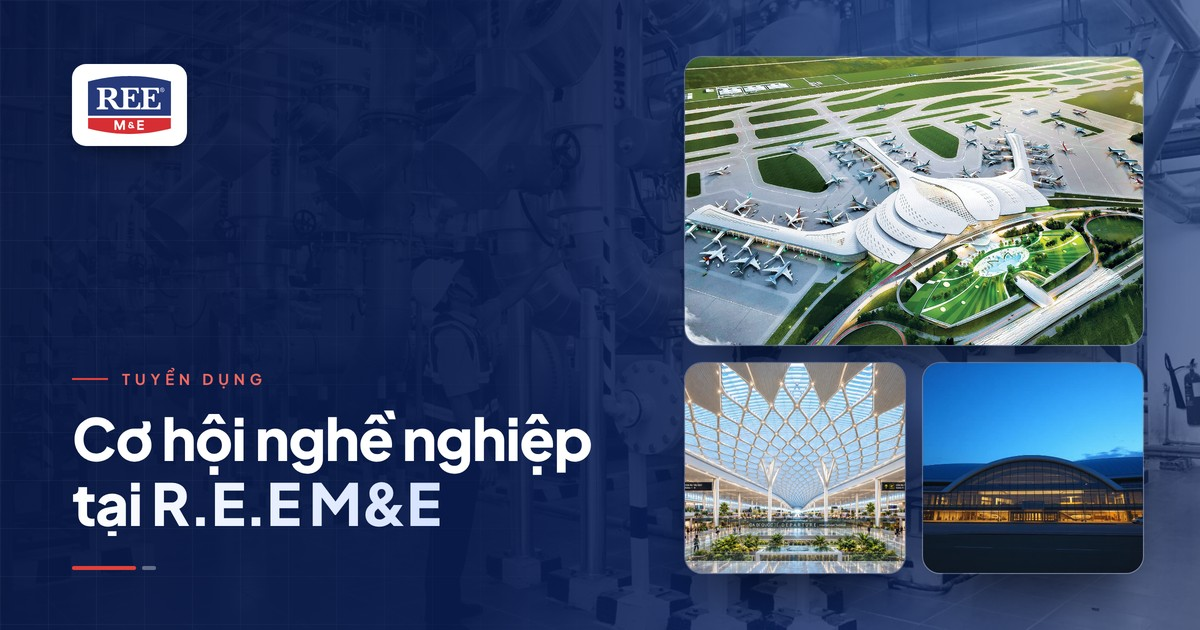
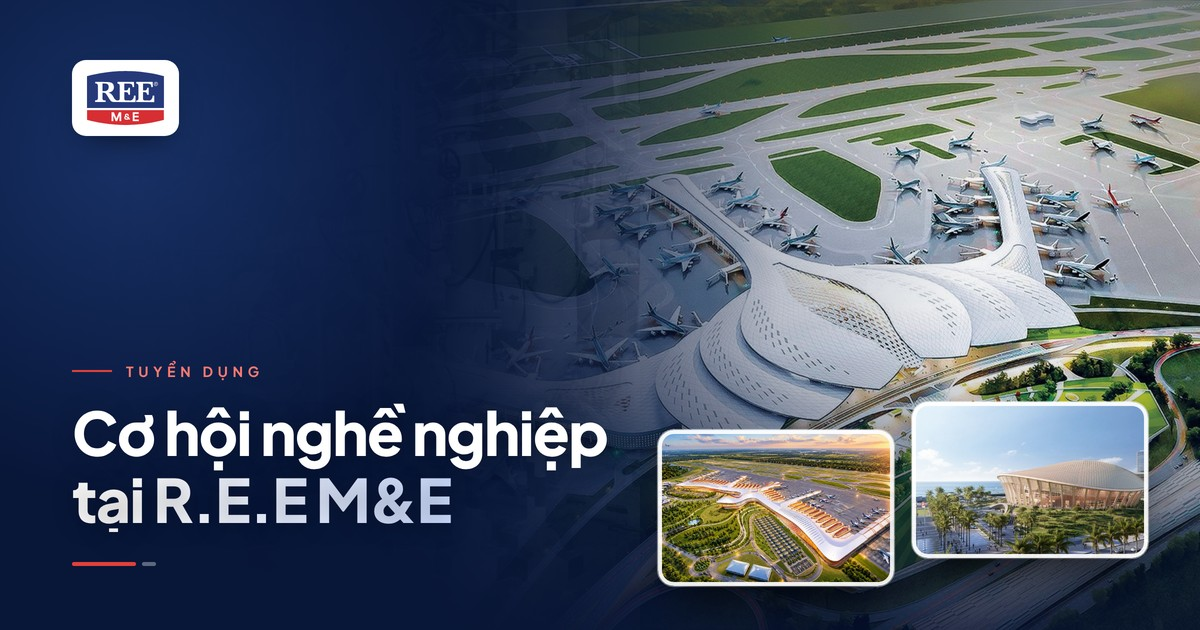
Job share thumbnail v2: cinematic Long Thành hero + client-chosen Phú Quốc thumbs
Claude-Session: https://claude.ai/code/session_01HtrxP9AuGt7Xg4SEAFE4e8

diff --git a/careers/job.html b/careers/job.html
@@ -7,15 +7,15 @@
 <meta property="og:type" content="website">
 <meta property="og:site_name" content="R.E.E M&amp;E">
 <meta property="og:title" content="Cơ hội nghề nghiệp tại R.E.E M&amp;E">
-<meta property="og:image" content="https://ree-me-website.vercel.app/careers/assets/img/og-job.jpg?v=1">
-<meta property="og:image:secure_url" content="https://ree-me-website.vercel.app/careers/assets/img/og-job.jpg?v=1">
+<meta property="og:image" content="https://ree-me-website.vercel.app/careers/assets/img/og-job.jpg?v=2">
+<meta property="og:image:secure_url" content="https://ree-me-website.vercel.app/careers/assets/img/og-job.jpg?v=2">
 <meta property="og:image:type" content="image/jpeg">
 <meta property="og:image:width" content="1200">
 <meta property="og:image:height" content="630">
 <meta property="og:image:alt" content="Cơ hội nghề nghiệp tại R.E.E M&amp;E">
 <meta name="twitter:card" content="summary_large_image">
 <meta name="twitter:title" content="Cơ hội nghề nghiệp tại R.E.E M&amp;E">
-<meta name="twitter:image" content="https://ree-me-website.vercel.app/careers/assets/img/og-job.jpg?v=1">
+<meta name="twitter:image" content="https://ree-me-website.vercel.app/careers/assets/img/og-job.jpg?v=2">
 <link rel="stylesheet" href="assets/fonts.css">
 <link rel="preconnect" href="https://fonts.googleapis.com" /><link rel="preconnect" href="https://fonts.gstatic.com" crossorigin /><link href="https://fonts.googleapis.com/css2?family=Plus+Jakarta+Sans:wght@300;400;500;600;700;800&display=swap" rel="stylesheet" />
 <link rel="stylesheet" href="assets/site.css?v=20261117e">
